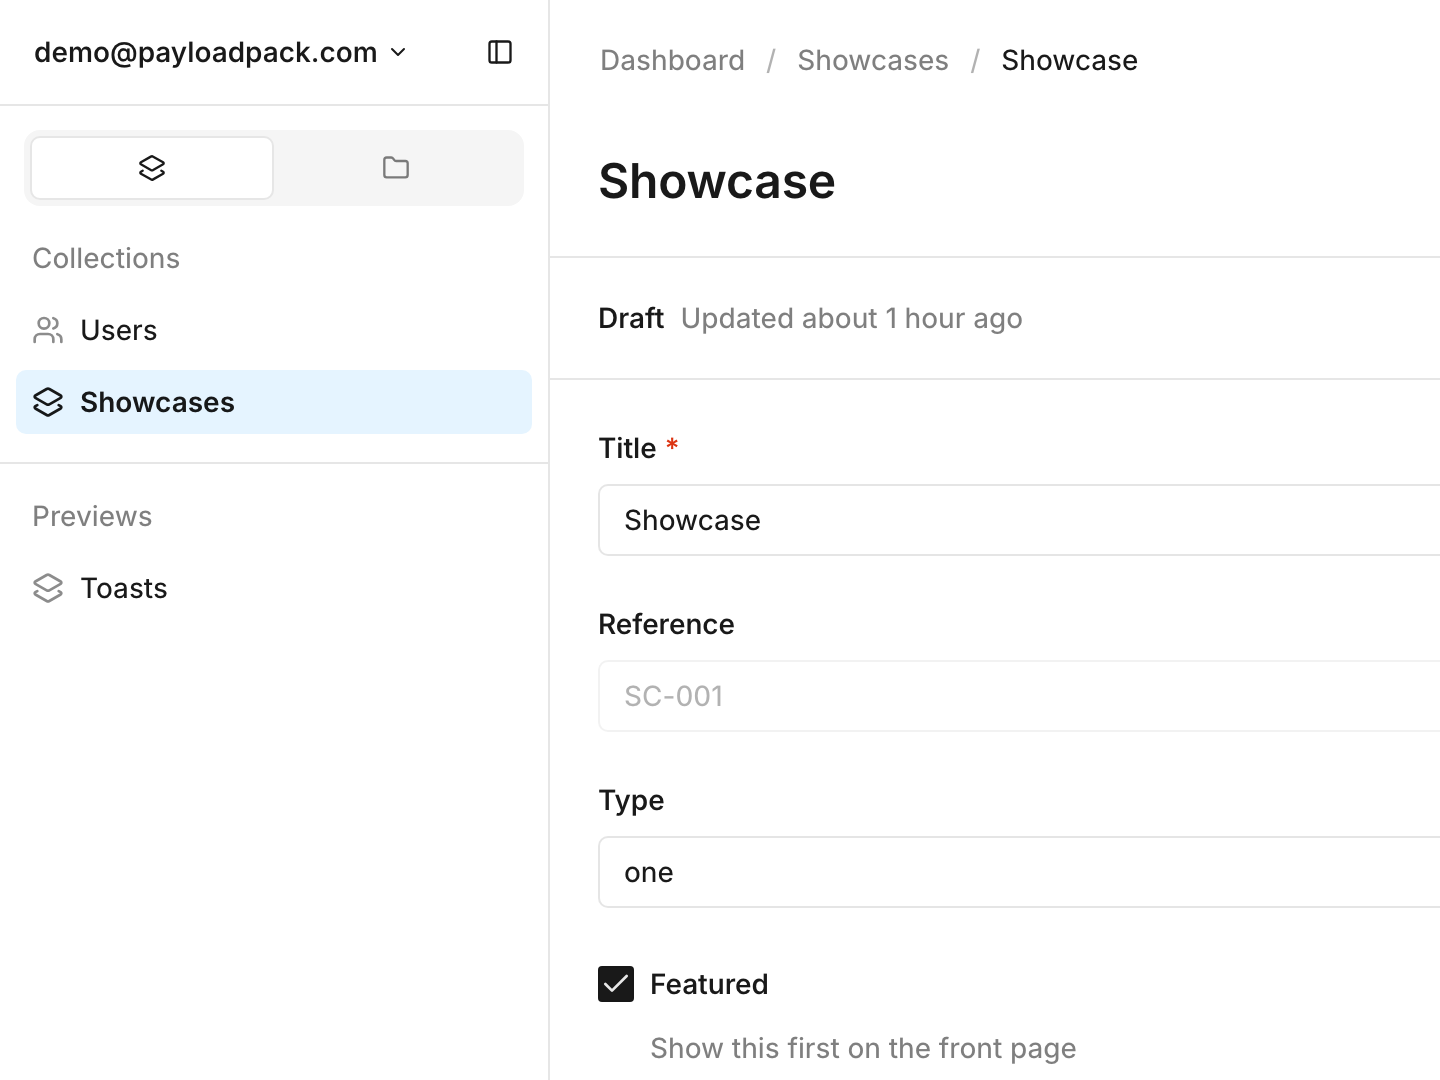
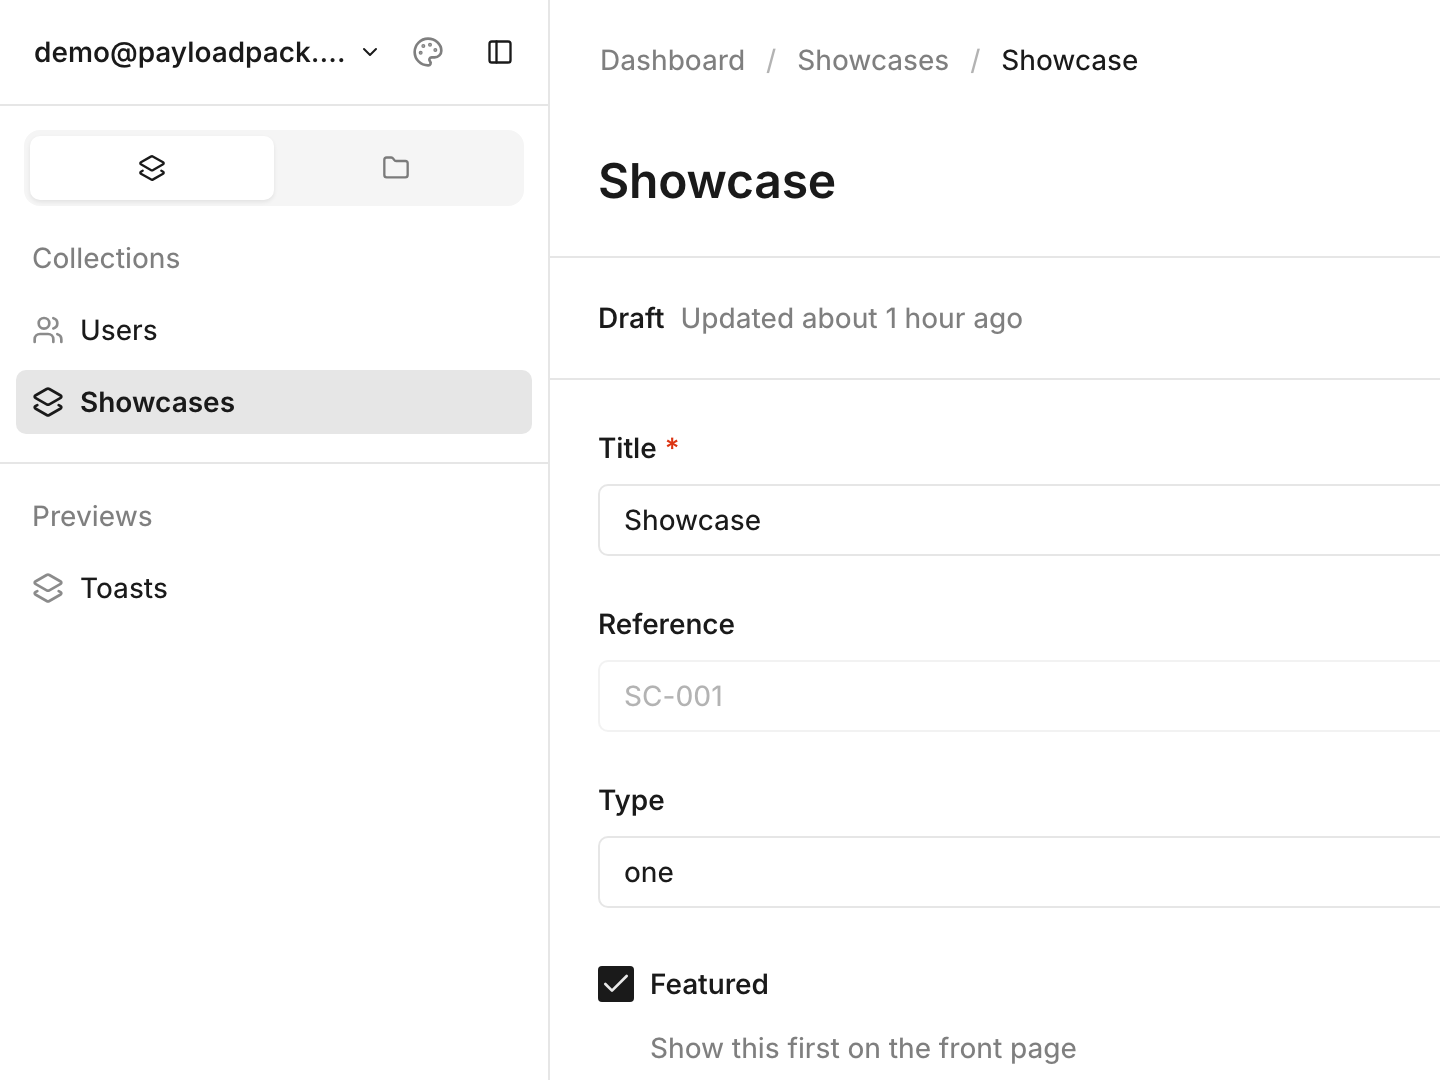
feat(panel): open the Appearance panel from the nav
Under Enhanced and Studio the Appearance button sits beside the
collapse button, anchored to it: right of it under Studio, left of it
under Enhanced and under it in the rail. Under Stock, on phones and
while a hidden nav is closed, the header button opens the same sheet.

Changed region(s): [[0.0, 0.3361, 0.375, 0.4278], [0.2188, 0.0306, 0.3125, 0.0611]]

diff --git a/packages/theme/src/components/appearance-panel.tsx b/packages/theme/src/components/appearance-panel.tsx
@@ -12,6 +12,8 @@ const colorModes = ['light', 'dark', 'auto'] as const
 
 const halves = ['light', 'dark'] as const
 
+const SHEET_ID = 'payloadpack-appearance'
+
 const FEEDBACK_MS = 2000
 
 const capitalize = (text: string) => `${text[0].toUpperCase()}${text.slice(1)}`
@@ -53,6 +55,28 @@ const readPalette = (cards: Element, name: string): CustomPalette => {
   return { accent: light.accent, dark: dark.base, light: light.base }
 }
 
+function Trigger() {
+  const { t } = useTranslation<object, TranslationKey>()
+
+  return (
+    <button
+      aria-label={t('payloadpack:appearance')}
+      className="payloadpack-appearance-panel__trigger"
+      popoverTarget={SHEET_ID}
+      type="button">
+      <span aria-hidden="true" className="payloadpack-appearance-panel__palette-icon" />
+    </button>
+  )
+}
+
+export function AppearanceNavButton() {
+  return (
+    <div className="payloadpack-appearance-panel payloadpack-appearance-panel--nav">
+      <Trigger />
+    </div>
+  )
+}
+
 function ColorField({ label, onChange, value }: { label: string; onChange: (value: string) => void; value: string }) {
   return (
     <label className="payloadpack-appearance-panel__color">
@@ -86,7 +110,6 @@ function ChoiceGroup<V extends string>({ children, choices, className, label, on
 }
 
 export function AppearancePanel() {
-  const id = useId()
   const {
     character,
     characters,
@@ -131,23 +154,21 @@ export function AppearancePanel() {
 
   return (
     <div className="payloadpack-appearance-panel">
-      <button
-        aria-label={t('payloadpack:appearance')}
-        className="payloadpack-appearance-panel__trigger"
-        popoverTarget={id}
-        type="button">
-        <span aria-hidden="true" className="payloadpack-appearance-panel__palette-icon" />
-      </button>
-      <dialog aria-labelledby={`${id}-title`} className="payloadpack-appearance-panel__sheet" id={id} popover="auto">
+      <Trigger />
+      <dialog
+        aria-labelledby={`${SHEET_ID}-title`}
+        className="payloadpack-appearance-panel__sheet"
+        id={SHEET_ID}
+        popover="auto">
         <header className="payloadpack-appearance-panel__header">
           <div>
-            <h2 id={`${id}-title`}>{t('payloadpack:appearance')}</h2>
+            <h2 id={`${SHEET_ID}-title`}>{t('payloadpack:appearance')}</h2>
             <p>{t('payloadpack:appearanceDescription')}</p>
           </div>
           <button
             aria-label={t('payloadpack:close')}
             className="payloadpack-appearance-panel__close"
-            popoverTarget={id}
+            popoverTarget={SHEET_ID}
             popoverTargetAction="hide"
             type="button">
             <XIcon size={16} />

diff --git a/apps/demo/tests/theme.e2e.spec.ts b/apps/demo/tests/theme.e2e.spec.ts
@@ -253,6 +253,34 @@ test.describe('Appearance panel', () => {
     await elsewhere.close()
   })
 
+  test('sits left of the nav toggle under Enhanced, right of it under Studio, and in the header when the nav is closed or Stock', async ({ page }) => {
+    const button = page.getByRole('button', { name: 'Appearance' })
+    const beside = async () => {
+      const [trigger, toggle] = [(await button.boundingBox())!, (await page.locator('.payloadpack-rail-toggle').boundingBox())!]
+      expect(trigger.y).toBe(toggle.y)
+      return trigger.x < toggle.x ? 'left' : 'right'
+    }
+
+    await page.goto('/admin')
+    expect(await beside()).toBe('left')
+
+    await page.context().addCookies([appearance({ character: 'studio' })])
+    await page.reload()
+    expect(await beside()).toBe('right')
+
+    await page.route('**/api/payload-preferences/nav*', (route) =>
+      route.request().method() === 'POST' ? route.fulfill({ json: {} }) : route.fallback()
+    )
+    await page.context().addCookies([appearance({ options: { enhanced: { nav: 'hidden' } } })])
+    await page.reload()
+    await page.getByRole('button', { name: 'Hide sidebar' }).click()
+    await expect(page.locator('.app-header').getByRole('button', { name: 'Appearance' })).toBeVisible()
+
+    await page.context().addCookies([appearance({ character: 'stock' })])
+    await page.reload()
+    await expect(page.locator('.app-header').getByRole('button', { name: 'Appearance' })).toBeVisible()
+  })
+
   test('draws the bundled Lucide palette icon on the header button', async ({ page }) => {
     await page.goto('/admin')
 

diff --git a/packages/theme/src/styles/appearance-panel.css b/packages/theme/src/styles/appearance-panel.css
@@ -408,7 +408,36 @@
       }
     }
 
-    /* 7. Footer */
+    /* 7. Nav button */
+    &.payloadpack-appearance-panel--nav {
+      display: none;
+    }
+
+    @media (min-width: 769px) {
+      :is(html[data-nav='icons'], html[data-nav='hidden']:has(.template-default--nav-open)) & {
+        .payloadpack-appearance-panel__trigger {
+          display: none;
+        }
+
+        &.payloadpack-appearance-panel--nav {
+          position: absolute;
+          position-anchor: --payloadpack-nav-close;
+          position-area: var(--payloadpack-nav-button-area);
+          position-visibility: always;
+          display: block;
+          margin: var(--spacer-1);
+
+          .payloadpack-appearance-panel__trigger {
+            display: grid;
+            width: var(--spacer-5);
+            height: var(--spacer-5);
+            border: 0;
+          }
+        }
+      }
+    }
+
+    /* 8. Footer */
     .payloadpack-appearance-panel__footer {
       display: flex;
       gap: var(--spacer-2);

diff --git a/packages/theme/test/plugin.test.ts b/packages/theme/test/plugin.test.ts
@@ -29,10 +29,14 @@ it('gives every supported language the English panel labels, and lets the app ov
   expect(translations.de.payloadpack.colorMode).toBe('Color mode')
 })
 
-it('puts the rail toggle after the app nav components', async () => {
+it('puts the rail toggle and the Appearance button after the app nav components', async () => {
   const config = await themePlugin({})({ admin: { components: { beforeNav: ['/nav#Banner'] } } } as Config)
 
-  expect(config.admin?.components?.beforeNav).toEqual(['/nav#Banner', '@payloadpack/theme/client#RailToggle'])
+  expect(config.admin?.components?.beforeNav).toEqual([
+    '/nav#Banner',
+    '@payloadpack/theme/client#RailToggle',
+    { path: '@payloadpack/theme/rsc#AppearanceServerPanel', serverProps: { panel: true, place: 'nav' } }
+  ])
 })
 
 it('throws when the default character is not allowed', () => {

diff --git a/packages/theme/src/characters/studio/studio.css b/packages/theme/src/characters/studio/studio.css
@@ -43,6 +43,8 @@
     }
 
     /* 4. Nav */
+    --payloadpack-nav-button-area: inline-end;
+
     .nav__header {
       display: contents;
     }
@@ -50,6 +52,7 @@
     .nav__close {
       align-self: flex-start;
       margin: var(--spacer-2) var(--spacer-2) 0;
+      anchor-name: --payloadpack-nav-close;
     }
 
     .user-menu {
@@ -59,8 +62,13 @@
 
     /* 5. Rail */
     @media (min-width: 769px) {
-      &[data-rail] .nav__close {
-        margin-inline-start: calc((var(--payloadpack-rail-width) - var(--spacer-5)) / 2);
+      &[data-rail] {
+        --payloadpack-nav-button-area: block-end;
+
+        .nav__close {
+          margin-inline-start: calc((var(--payloadpack-rail-width) - var(--spacer-5)) / 2);
+          margin-block-end: calc(var(--spacer-5) + var(--spacer-1));
+        }
       }
     }
   }

diff --git a/packages/theme/src/characters/enhanced/enhanced.css b/packages/theme/src/characters/enhanced/enhanced.css
@@ -68,5 +68,30 @@
         outline: var(--accessibility-outline);
       }
     }
+
+    /* 6. Nav */
+    --payloadpack-nav-button-area: inline-start;
+
+    .nav__close {
+      anchor-name: --payloadpack-nav-close;
+    }
+
+    .nav__header .user-menu {
+      margin-inline-end: calc(var(--spacer-5) + var(--spacer-1));
+    }
+
+    @media (min-width: 769px) {
+      &[data-rail] {
+        --payloadpack-nav-button-area: block-end;
+
+        .nav__header {
+          padding-block-end: calc(var(--spacer-2) + var(--spacer-5) + var(--spacer-1));
+        }
+
+        .nav__header .user-menu {
+          margin-inline-end: 0;
+        }
+      }
+    }
   }
 }

diff --git a/packages/theme/src/components/appearance-server-panel.tsx b/packages/theme/src/components/appearance-server-panel.tsx
@@ -1,8 +1,11 @@
 import type { ServerProps } from 'payload'
 
 import { isEditable, type Panel } from '../lib/appearance.js'
-import { AppearancePanel } from './appearance-panel.js'
+import { AppearanceNavButton, AppearancePanel } from './appearance-panel.js'
 
-export function AppearanceServerPanel({ panel, user }: ServerProps & { panel: Panel }) {
-  return isEditable(panel, user) ? <AppearancePanel /> : null
+export function AppearanceServerPanel({ panel, place, user }: ServerProps & { panel: Panel; place?: 'nav' }) {
+  if (!isEditable(panel, user)) {
+    return null
+  }
+  return place === 'nav' ? <AppearanceNavButton /> : <AppearancePanel />
 }

diff --git a/packages/theme/src/index.ts b/packages/theme/src/index.ts
@@ -71,7 +71,8 @@ export function themePlugin(pluginConfig: ThemePluginConfig = {}): Plugin {
         ],
         beforeNav: [
           ...(config.admin?.components?.beforeNav ?? []),
-          `${PACKAGE_NAME}/client#RailToggle`
+          `${PACKAGE_NAME}/client#RailToggle`,
+          { path: `${PACKAGE_NAME}/rsc#AppearanceServerPanel`, serverProps: { panel, place: 'nav' } }
         ],
         providers: [
           ...(config.admin?.components?.providers ?? []),

diff --git a/packages/theme/src/options/nav.css b/packages/theme/src/options/nav.css
@@ -23,7 +23,6 @@
     @media (min-width: 769px) {
       .nav__close {
         visibility: hidden;
-        anchor-name: --payloadpack-nav-close;
       }
 
       .payloadpack-rail-toggle {

diff --git a/docs/appearance.md b/docs/appearance.md
@@ -128,7 +128,7 @@ Color mode is Payload's own light/dark preference: the panel calls `useTheme().s
 
 ## The Appearance panel
 
-- A Lucide `palette` icon button in the header actions (`admin.components.actions`), on every Default-template view. Signed-out views have no slot for it.
+- A Lucide `palette` icon button, on every Default-template view. Under Enhanced and Studio it sits in the nav beside the collapse button (`beforeNav`, placed with CSS anchor positioning): right of it under Studio, left of it under Enhanced, and under it in the rail. Under Stock, on phones and while a `hidden` nav is closed, it is in the header actions (`admin.components.actions`) instead, which also hold the sheet both buttons open. Signed-out views have no slot for it.
 - It opens a side sheet docked to the right edge, full height, 360px wide, built on the native `popover` attribute: Escape and a click outside close it. The page stays visible beside it.
 - Below 768px the sheet fills the screen, with a close button in its header.
 - Every change applies at once. There is no Save button.

diff --git a/README.md b/README.md
@@ -30,7 +30,7 @@
   </tr>
 </table>
 
-Each editor picks how their admin panel looks from the Appearance panel in the header: a character for the layout and a palette for the colors. The default is the Enhanced character, with a roomier density and Lucide icons, on the Warm palette. Stock on the Payload palette is plain Payload. Setups are rendered on the server, so pages never flash.
+Each editor picks how their admin panel looks from the Appearance panel: a character for the layout and a palette for the colors. The default is the Enhanced character, with a roomier density and Lucide icons, on the Warm palette. Stock on the Payload palette is plain Payload. Setups are rendered on the server, so pages never flash.
 
 ## Install
 
@@ -54,7 +54,7 @@ payload generate:importmap
 
 ## Appearance
 
-Click the Appearance button in the header to open the Appearance panel:
+Click the Appearance button, beside the collapse button at the top of the nav, or in the header under Stock and on phones, to open the Appearance panel:
 
 <p>
   <picture>
